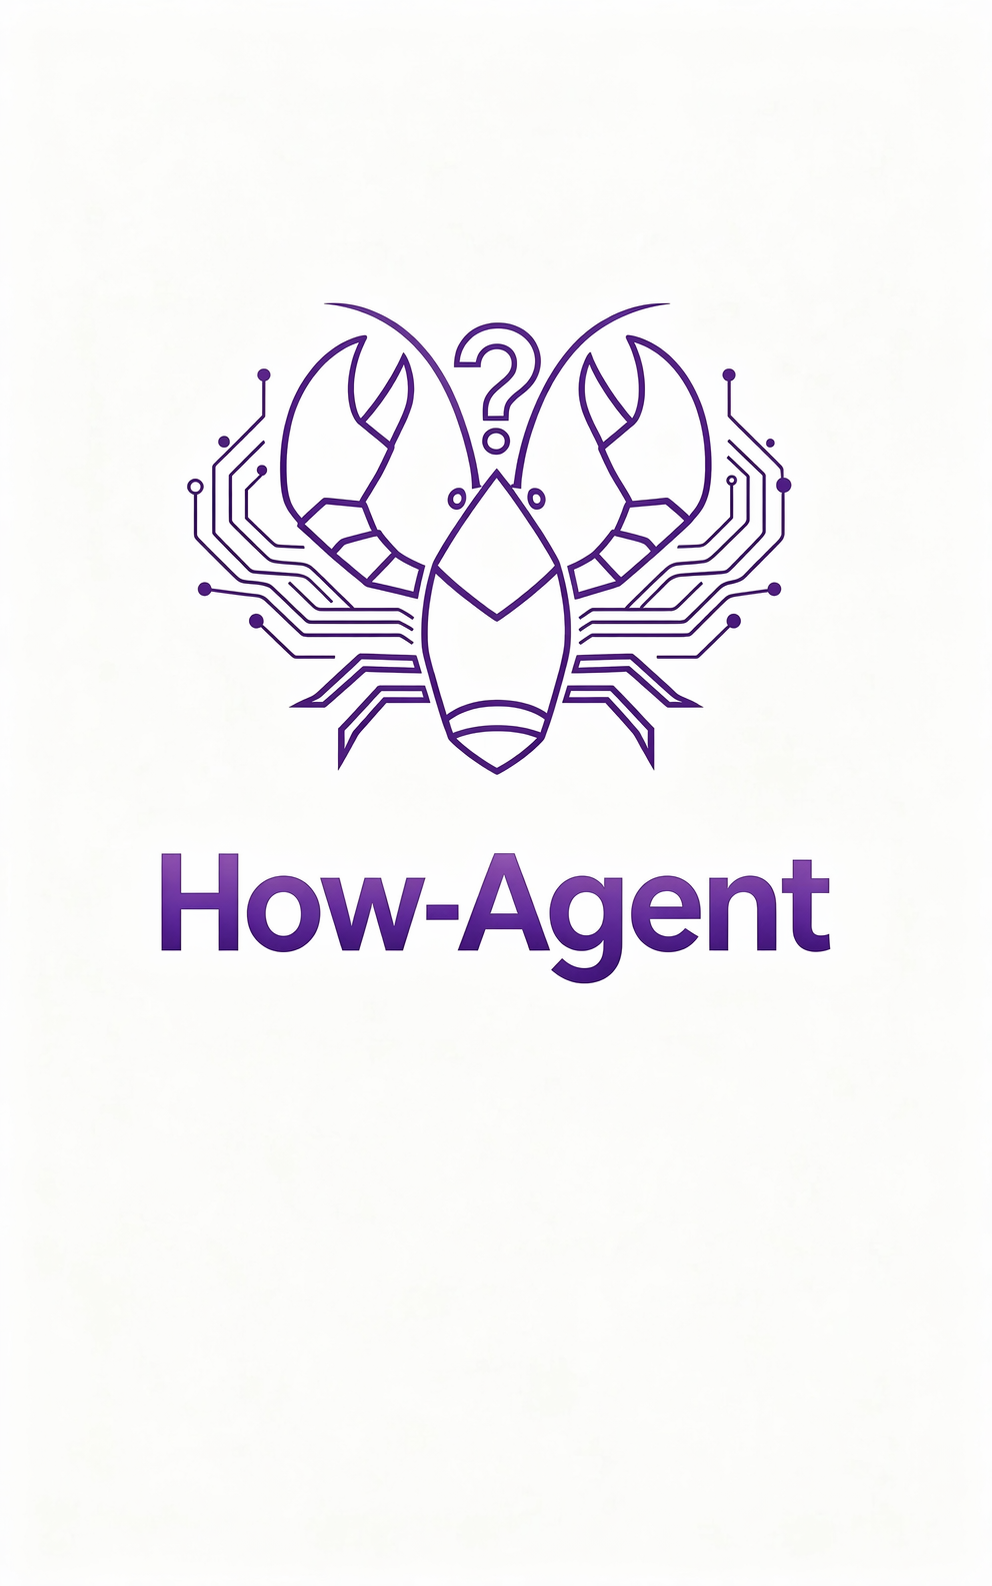
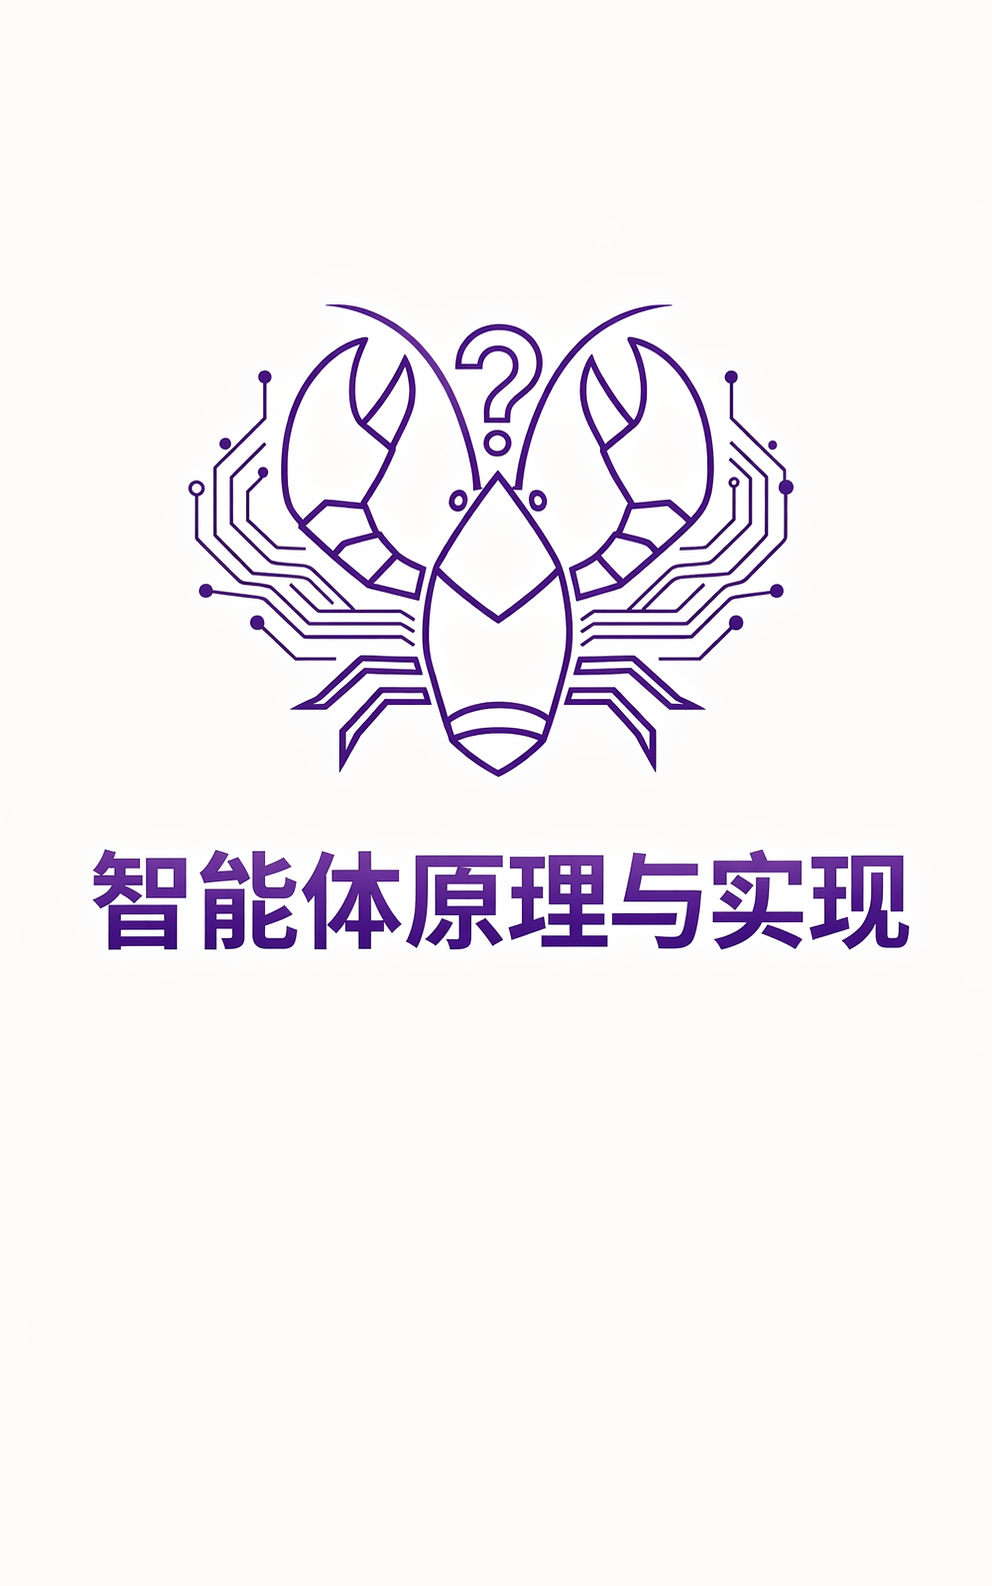
Update agent book title and cover

diff --git a/zh/index.html b/zh/index.html
@@ -2264,19 +2264,19 @@ Swal.fire({
           </div>
 
           <div class="book-container">
-              <img src="./images/how-agent.png" alt="How-Agent 封面" class="book-cover">
+              <img src="./images/how-agent.png" alt=" 智能体原理与实现封面" class="book-cover">
               <div class="book-info">
-                  <h1>How-Agent</h1>
+                  <h1>智能体原理与实现</h1>
                   <div class="book-description">
-                      <p>How-Agent 聚焦 Agent 与智能体相关内容，围绕“如何理解、设计、构建并真正用好 Agent”这一主线展开。</p>
-                      <p>随着大模型能力持续增强，越来越多的应用开始从“单次问答”走向“可规划、可调用工具、可执行任务”的智能体形态。How-Agent 试图把这条演进路径讲清楚，帮助读者从概念走到实践：</p>
+                      <p>《智能体原理与实现》聚焦智能体的核心问题，围绕“如何理解、设计、构建并用好智能体”展开。</p>
+                      <p>随着大模型应用从单次问答走向可规划、可调用工具、可执行任务的智能体系统，本页面希望帮助读者完成从概念到实践的过渡：</p>
                       <ul>
-                          <li>理解 Agent 的核心组成，包括角色、记忆、工具、规划与执行流程</li>
-                          <li>梳理从提示词到工作流，再到多步骤智能体系统的设计方法</li>
-                          <li>结合实际案例理解 Agent 在内容生成、开发辅助、任务编排等方向的应用方式</li>
+                          <li>理解智能体的核心组成，如角色、记忆、工具、规划与执行</li>
+                          <li>掌握从提示词、工作流到多步骤智能体系统的设计思路</li>
+                          <li>结合案例了解智能体在内容生成、开发辅助与任务编排中的应用</li>
                       </ul>
-                      <p>页面内容强调实践导向，既关注“怎么做”，也关注“为什么这样设计”，适合希望学习 AI Agent 方法、流程与案例的读者持续跟进。</p>
-                      <p class="highlight">内容特色：在线页面，兼顾概念理解、系统设计与落地实践。</p>
+                      <p>内容以实践为导向，兼顾设计方法与实现思路，适合希望系统学习智能体的读者。</p>
+                      <p class="highlight">内容特色：在线页面，兼顾概念理解、系统设计与实践落地。</p>
                   </div>
                   <a href="https://iot-book.github.io/How-Agent/" class="buy-btn" target="_blank" rel="noopener">在线阅读</a>
               </div>
